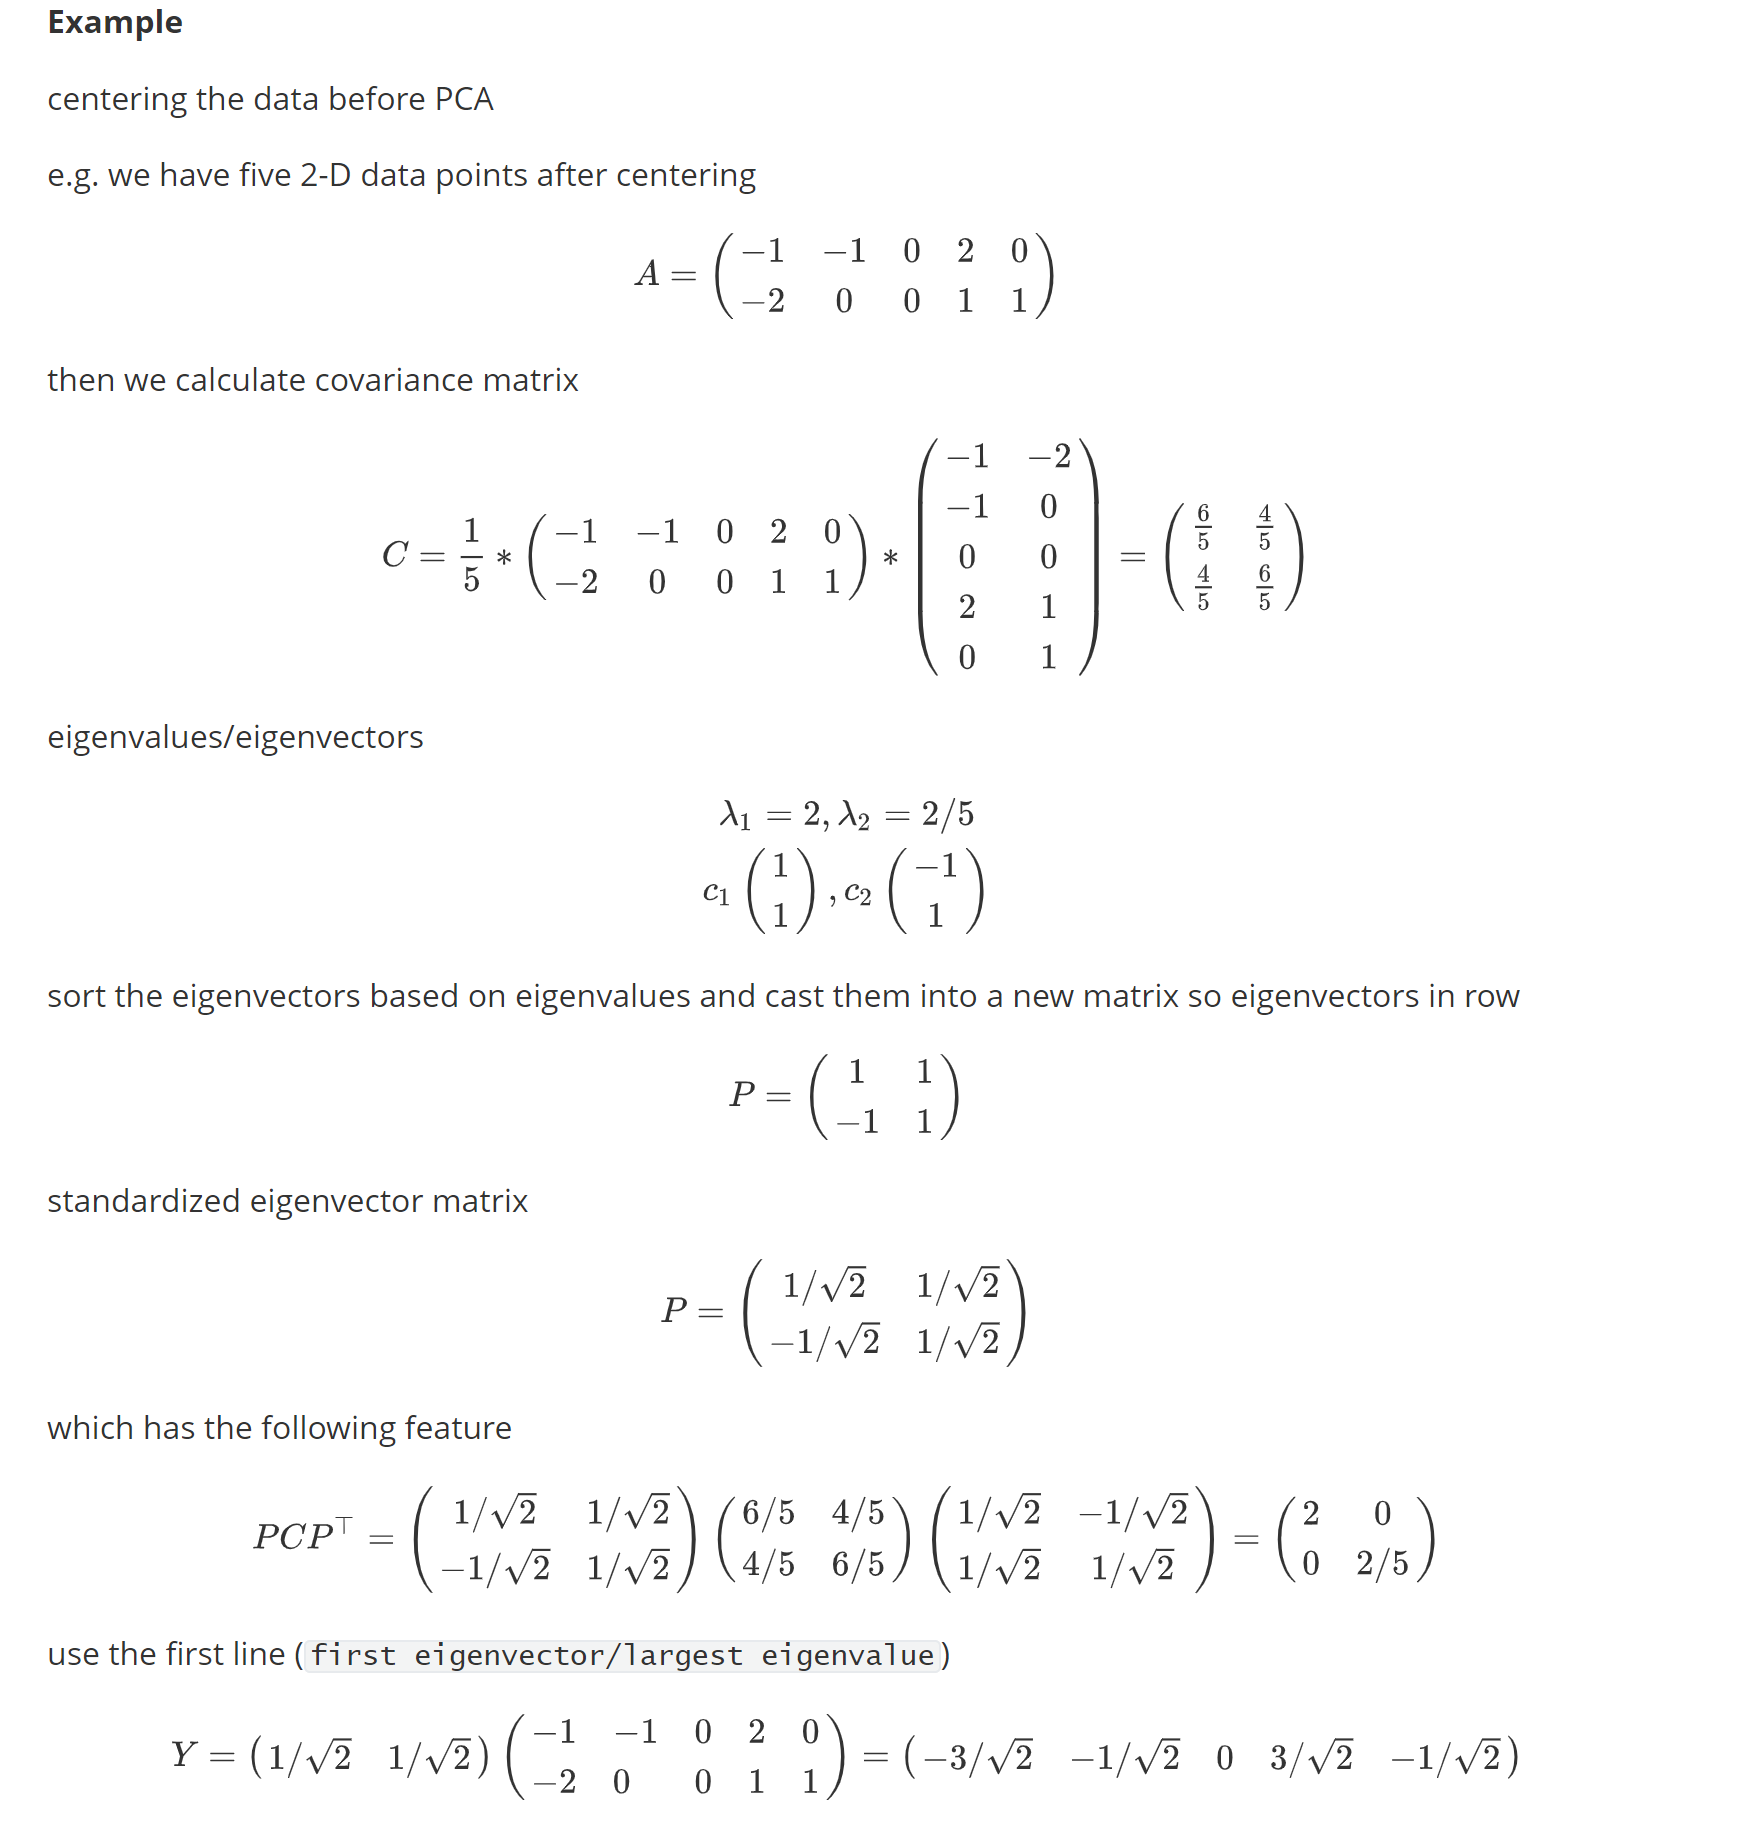
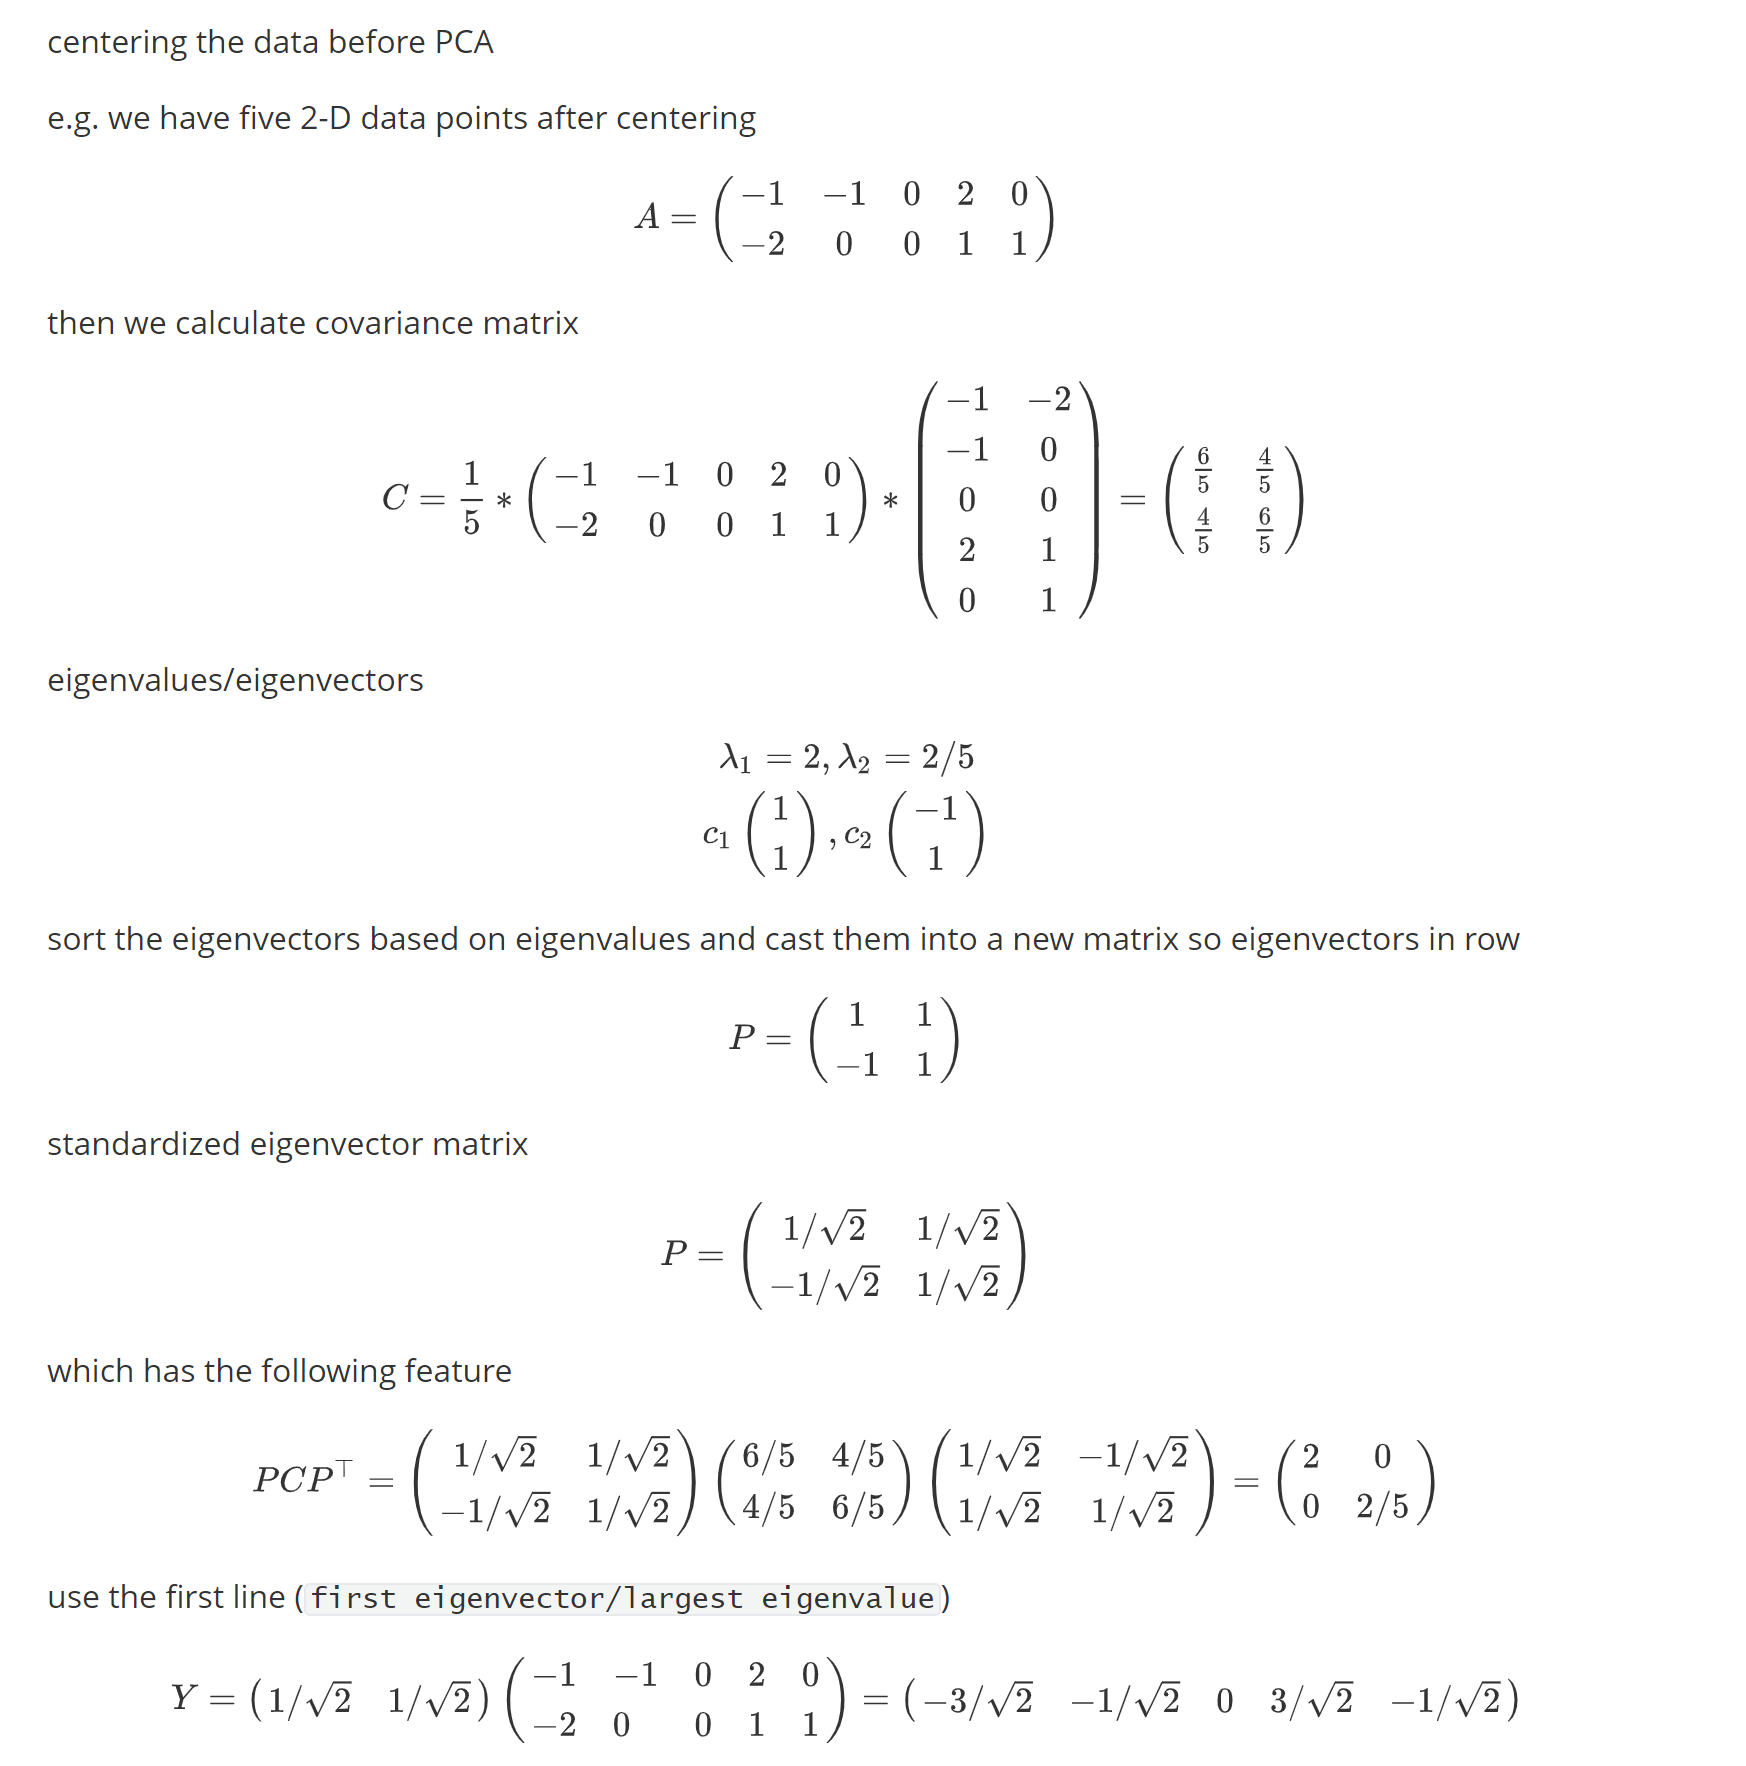
Luchao's default auto-commitment using gitpull.sh

diff --git a/PCA/README.md b/PCA/README.md
@@ -24,71 +24,6 @@ it seems github has problem rendering latex
 
 
 
-centering the data before PCA
-
-
-
-e.g. we have five 2-D data points after centering
-
-
-
-$$
-A = \begin{pmatrix}
--1 & -1 & 0 & 2 & 0\\
--2 & 0 & 0 & 1 & 1
-\end{pmatrix}
-$$
-
-
-then we calculate covariance matrix
-
-
-$$
-\begin{align*}
-C = \frac{1}{5} * \begin{pmatrix}-1 & -1 & 0 & 2 & 0 \\
--2 & 0  & 0 & 1 & 1\end{pmatrix} * \begin{pmatrix}-1 & -2 \\ -1 & 0 \\ 0 & 0 \\ 2 & 1 \\ 0 & 1\end{pmatrix} = \begin{pmatrix} \frac{6}{5} & \frac{4}{5} \\ \frac{4}{5} & \frac{6}{5}\end{pmatrix}
-\end{align*}
-$$
-
-
-
-eigenvalues/eigenvectors
-
-
-$$
-\begin{array}{c}{\lambda_{1}=2, \lambda_{2}=2 / 5} \\ {c_{1}\left(\begin{array}{c}{1} \\ {1}\end{array}\right), c_{2}\left(\begin{array}{c}{-1} \\ {1}\end{array}\right)}\end{array}
-$$
-
-
-sort the eigenvectors based on eigenvalues and cast them into a new matrix so eigenvectors in row
-$$
-P=\left(\begin{array}{cc}{1 } & {1 } \\ {-1} & {1 }\end{array}\right)
-$$
-
-
-standardized eigenvector matrix
-
-
-$$
-P=\left(\begin{array}{cc}{1 / \sqrt{2}} & {1 / \sqrt{2}} \\ {-1 / \sqrt{2}} & {1 / \sqrt{2}}\end{array}\right)
-$$
-
-
-which has the following feature
-
-
-$$
-P C P^{\top}=\left(\begin{array}{cc}{1 / \sqrt{2}} & {1 / \sqrt{2}} \\ {-1 / \sqrt{2}} & {1 / \sqrt{2}}\end{array}\right)\left(\begin{array}{cc}{6 / 5} & {4 / 5} \\ {4 / 5} & {6 / 5}\end{array}\right)\left(\begin{array}{cc}{1 / \sqrt{2}} & {-1 / \sqrt{2}} \\ {1 / \sqrt{2}} & {1 / \sqrt{2}}\end{array}\right)=\left(\begin{array}{cc}{2} & {0} \\ {0} & {2 / 5}\end{array}\right)
-$$
-
-
-use the first line (`first eigenvector/largest eigenvalue`)
-
-
-$$
-Y=\begin{pmatrix} 1/\sqrt2 & 1/\sqrt2 \end{pmatrix}\left(\begin{array}{llllll}{-1} & {-1} & {0} & {2} & {0} \\ {-2} & {0} & {0} & {1} & {1}\end{array}\right)=\left(\begin{array}{cccc}{-3 / \sqrt{2}} & {-1 / \sqrt{2}} & {0} & {3 / \sqrt{2}} & {-1 / \sqrt{2}}\end{array}\right)
-$$
-
 
 
 DONE! the projected 1-D points are shown as below

diff --git a/PCA/PCA_latex.md b/PCA/PCA_latex.md
@@ -1,0 +1,69 @@
+# Example
+
+
+
+centering the data before PCA
+
+
+
+e.g. we have five 2-D data points after centering
+
+
+
+$$
+A = \begin{pmatrix}
+-1 & -1 & 0 & 2 & 0\\
+-2 & 0 & 0 & 1 & 1
+\end{pmatrix}
+$$
+
+
+then we calculate covariance matrix
+
+
+$$
+\begin{align*}
+C = \frac{1}{5} * \begin{pmatrix}-1 & -1 & 0 & 2 & 0 \\
+-2 & 0  & 0 & 1 & 1\end{pmatrix} * \begin{pmatrix}-1 & -2 \\ -1 & 0 \\ 0 & 0 \\ 2 & 1 \\ 0 & 1\end{pmatrix} = \begin{pmatrix} \frac{6}{5} & \frac{4}{5} \\ \frac{4}{5} & \frac{6}{5}\end{pmatrix}
+\end{align*}
+$$
+
+
+
+eigenvalues/eigenvectors
+
+
+$$
+\begin{array}{c}{\lambda_{1}=2, \lambda_{2}=2 / 5} \\ {c_{1}\left(\begin{array}{c}{1} \\ {1}\end{array}\right), c_{2}\left(\begin{array}{c}{-1} \\ {1}\end{array}\right)}\end{array}
+$$
+
+
+sort the eigenvectors based on eigenvalues and cast them into a new matrix so eigenvectors in row
+$$
+P=\left(\begin{array}{cc}{1 } & {1 } \\ {-1} & {1 }\end{array}\right)
+$$
+
+
+standardized eigenvector matrix
+
+
+$$
+P=\left(\begin{array}{cc}{1 / \sqrt{2}} & {1 / \sqrt{2}} \\ {-1 / \sqrt{2}} & {1 / \sqrt{2}}\end{array}\right)
+$$
+
+
+which has the following feature
+
+
+$$
+P C P^{\top}=\left(\begin{array}{cc}{1 / \sqrt{2}} & {1 / \sqrt{2}} \\ {-1 / \sqrt{2}} & {1 / \sqrt{2}}\end{array}\right)\left(\begin{array}{cc}{6 / 5} & {4 / 5} \\ {4 / 5} & {6 / 5}\end{array}\right)\left(\begin{array}{cc}{1 / \sqrt{2}} & {-1 / \sqrt{2}} \\ {1 / \sqrt{2}} & {1 / \sqrt{2}}\end{array}\right)=\left(\begin{array}{cc}{2} & {0} \\ {0} & {2 / 5}\end{array}\right)
+$$
+
+
+use the first line (`first eigenvector/largest eigenvalue`)
+
+
+$$
+Y=\begin{pmatrix} 1/\sqrt2 & 1/\sqrt2 \end{pmatrix}\left(\begin{array}{llllll}{-1} & {-1} & {0} & {2} & {0} \\ {-2} & {0} & {0} & {1} & {1}\end{array}\right)=\left(\begin{array}{cccc}{-3 / \sqrt{2}} & {-1 / \sqrt{2}} & {0} & {3 / \sqrt{2}} & {-1 / \sqrt{2}}\end{array}\right)
+$$
+
